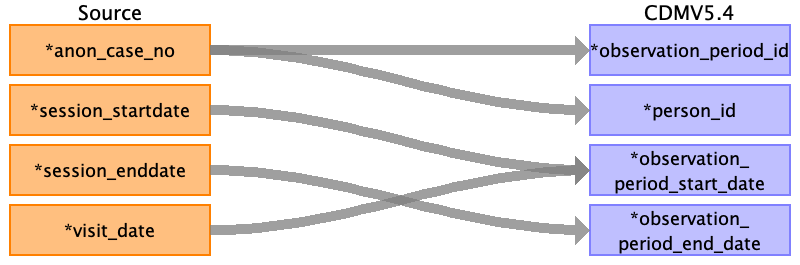
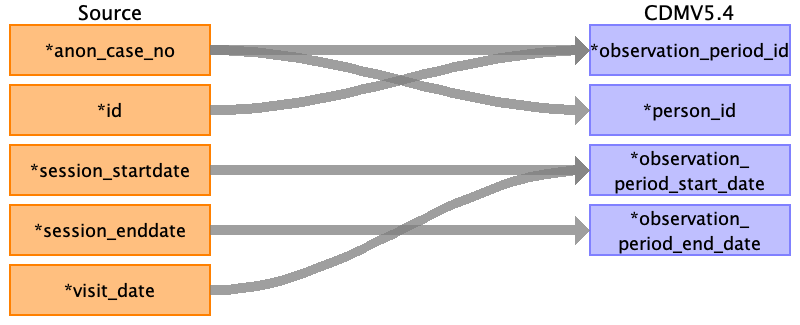
Update visit_occurrence and observation_period

diff --git a/observation_period.md b/observation_period.md
@@ -6,10 +6,10 @@
 
 | Destination Field | Source field | Logic | Comment field |
 | --- | --- | --- | --- |
-| observation_period_id | anon_case_no |  | BEWARE anon_case_no may appear in multiple rows, representing multiple operations in a single visit session.<br>Autogenerated unique ids |
+| observation_period_id | anon_case_no<br>id |  | BEWARE anon_case_no may appear in multiple rows, representing multiple operations in a single visit session.<br><br>generate a unique number along with anon_case_no and Id |
 | person_id | anon_case_no | Joined with PERSON.PERSON_SOURCE_VALUE for PERSON.PERSON_ID |  |
-| observation_period_start_date | session_startdate<br>visit_date |  | MIN date |
-| observation_period_end_date | session_enddate |  | MAX date |
+| observation_period_start_date | session_startdate<br>visit_date |  | Min of the below start date as  Common variables in each table - Operation_StartDate  post_op.discharge - Diagnosis_Date  intra_op.operation - Vital_Signs_Taken_Date  intra_op.aims_vitals - VITAL_DATE  post_op.lab_micro - Reported_Date  post_op.icu - Resuscitation_All_Data_Authored_Date |
+| observation_period_end_date | session_enddate |  | Maximum of the below date   Common variables in each table - Operation_EndDate  post_op.icu - ICU_Discharge_Date  post_op.info - Death_Date |
 | period_type_concept_id |  |  | 32879	Registry |
 
 ### Reading from post_op__discharge
@@ -18,10 +18,10 @@
 
 | Destination Field | Source field | Logic | Comment field |
 | --- | --- | --- | --- |
-| observation_period_id |  |  | Autogenerated unique ids |
+| observation_period_id |  |  | generate a unique number along with anon_case_no and Id |
 | person_id | anon_case_no |  |  |
-| observation_period_start_date |  |  | MIN date |
-| observation_period_end_date | diagnosis_date |  | MAX date |
+| observation_period_start_date |  |  | Min of the below start date as  Common variables in each table - Operation_StartDate  post_op.discharge - Diagnosis_Date  intra_op.operation - Vital_Signs_Taken_Date  intra_op.aims_vitals - VITAL_DATE  post_op.lab_micro - Reported_Date  post_op.icu - Resuscitation_All_Data_Authored_Date |
+| observation_period_end_date | diagnosis_date |  | Maximum of the below date   Common variables in each table - Operation_EndDate  post_op.icu - ICU_Discharge_Date  post_op.info - Death_Date |
 | period_type_concept_id |  |  | 32879	Registry |
 
 ### Reading from post_op__info
@@ -30,10 +30,10 @@
 
 | Destination Field | Source field | Logic | Comment field |
 | --- | --- | --- | --- |
-| observation_period_id |  |  | Autogenerated unique ids |
+| observation_period_id |  |  | generate a unique number along with anon_case_no and Id |
 | person_id |  |  |  |
-| observation_period_start_date |  |  | MIN date |
-| observation_period_end_date |  |  | MAX date |
+| observation_period_start_date |  |  | Min of the below start date as  Common variables in each table - Operation_StartDate  post_op.discharge - Diagnosis_Date  intra_op.operation - Vital_Signs_Taken_Date  intra_op.aims_vitals - VITAL_DATE  post_op.lab_micro - Reported_Date  post_op.icu - Resuscitation_All_Data_Authored_Date |
+| observation_period_end_date |  |  | Maximum of the below date   Common variables in each table - Operation_EndDate  post_op.icu - ICU_Discharge_Date  post_op.info - Death_Date |
 | period_type_concept_id |  |  | 32879	Registry |
 
 ### Reading from post_op__lab_micro
@@ -42,10 +42,10 @@
 
 | Destination Field | Source field | Logic | Comment field |
 | --- | --- | --- | --- |
-| observation_period_id |  |  | Autogenerated unique ids |
+| observation_period_id |  |  | generate a unique number along with anon_case_no and Id |
 | person_id | anon_case_no |  |  |
-| observation_period_start_date |  |  | MIN date |
-| observation_period_end_date | reported_time |  | MAX date |
+| observation_period_start_date |  |  | Min of the below start date as  Common variables in each table - Operation_StartDate  post_op.discharge - Diagnosis_Date  intra_op.operation - Vital_Signs_Taken_Date  intra_op.aims_vitals - VITAL_DATE  post_op.lab_micro - Reported_Date  post_op.icu - Resuscitation_All_Data_Authored_Date |
+| observation_period_end_date | reported_time |  | Maximum of the below date   Common variables in each table - Operation_EndDate  post_op.icu - ICU_Discharge_Date  post_op.info - Death_Date |
 | period_type_concept_id |  |  | 32879	Registry |
 
 ### Reading from pre_op__lab
@@ -54,9 +54,9 @@
 
 | Destination Field | Source field | Logic | Comment field |
 | --- | --- | --- | --- |
-| observation_period_id |  |  | Autogenerated unique ids |
+| observation_period_id |  |  | generate a unique number along with anon_case_no and Id |
 | person_id | anon_case_no |  |  |
-| observation_period_start_date | preop_lab_collection_datetime |  | MIN date |
-| observation_period_end_date |  |  | MAX date |
+| observation_period_start_date | preop_lab_collection_datetime |  | Min of the below start date as  Common variables in each table - Operation_StartDate  post_op.discharge - Diagnosis_Date  intra_op.operation - Vital_Signs_Taken_Date  intra_op.aims_vitals - VITAL_DATE  post_op.lab_micro - Reported_Date  post_op.icu - Resuscitation_All_Data_Authored_Date |
+| observation_period_end_date |  |  | Maximum of the below date   Common variables in each table - Operation_EndDate  post_op.icu - ICU_Discharge_Date  post_op.info - Death_Date |
 | period_type_concept_id |  |  | 32879	Registry |
 

diff --git a/visit_occurrence.md b/visit_occurrence.md
@@ -6,17 +6,17 @@
 
 | Destination Field | Source field | Logic | Comment field |
 | --- | --- | --- | --- |
-| visit_occurrence_id |  |  |  |
-| person_id | anon_case_no | Joined with PERSON.PERSON_SOURCE_VALUE for PERSON.PERSON_ID |  |
-| visit_concept_id | admission_type | TODO: map standard concept ids |  |
+| visit_occurrence_id | anon_case_no | Autogenerated unique ids based on 'anon_case_no' field. |  |
+| person_id | anon_case_no | Joined with PERSON.PERSON_SOURCE_VALUE for PERSON.PERSON_ID | Each case is considered a new patient. PASAR has no master patient table nor unique patient id.    BEWARE: `anon_case_no` is not unique. The PK of pre_op.char is `operation_id`.<br> |
+| visit_concept_id | admission_type | based on the admission_type , we need to fetch the concept_id    TODO: map standard concept ids | It has a value  like    Inpatient  Day Surgery (DS)  Same Day Admission (SDA)<br> |
 | visit_start_date | session_startdate |  |  |
 | visit_start_datetime |  |  |  |
 | visit_end_date | session_enddate |  |  |
 | visit_end_datetime |  |  |  |
 | visit_type_concept_id |  |  | 32879	Registry |
 | provider_id |  |  |  |
-| care_site_id | institution_code |  |  |
-| visit_source_value | session_id |  |  |
+| care_site_id | institution_code |  | Only put id for SGH here |
+| visit_source_value | admission_type |  |  |
 | visit_source_concept_id |  |  |  |
 | admitted_from_concept_id |  |  |  |
 | admitted_from_source_value |  |  |  |
@@ -39,7 +39,7 @@
 | visit_end_datetime |  |  |  |
 | visit_type_concept_id |  |  | 32879	Registry |
 | provider_id |  |  |  |
-| care_site_id |  |  |  |
+| care_site_id |  |  | Only put id for SGH here |
 | visit_source_value |  |  |  |
 | visit_source_concept_id |  |  |  |
 | admitted_from_concept_id |  |  |  |
